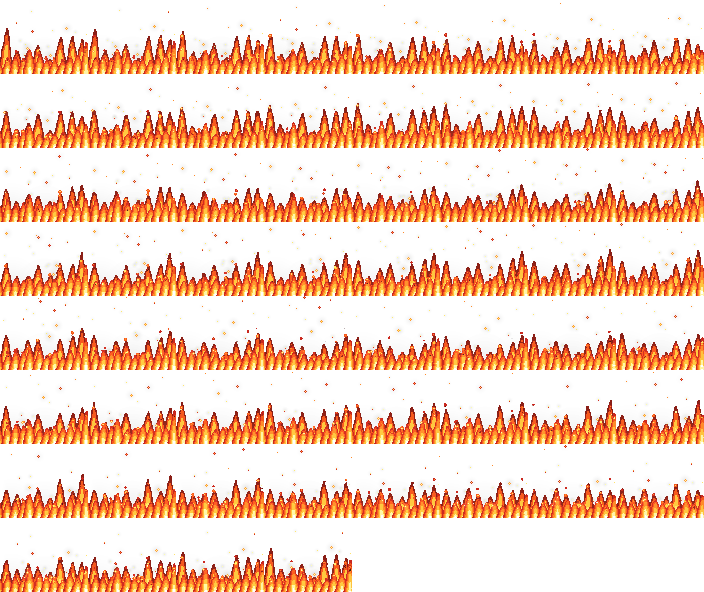
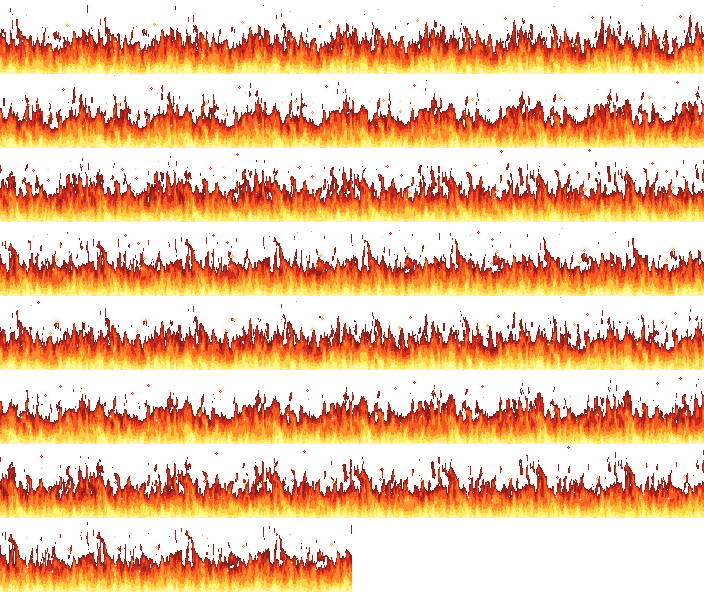
style(cosmetics): 픽셀 화염을 불벽으로 다시 그림 — 하얀 밑동·끊긴 색 단계·떨어져 나가는 불조각
- 따로 솟는 불 혀 대신 한 장의 불벽: 위로 흐르는 세로로 긴 노이즈에서 높이를 빼
  열을 정하고, 열에 따라 하양→노랑→주황→빨강→검붉음 색을 딱딱 끊어 칠한다
- 노이즈는 위로 갈수록 세져 밑동은 꽉 차고, 불끝은 들쭉날쭉하며 위쪽 불조각이
  떨어져 나가 솟다가 꺼진다
- 카드 아래 이름 가림막에 밑동이 덮이므로 불 높이를 조금 올려 밝은 층이 보이게

diff --git a/scripts/pixelfx/card-blaze.js b/scripts/pixelfx/card-blaze.js
@@ -1,11 +1,15 @@
-// The tongue, lick, flame-puff and ember recipe is adapted from Sprite Fusion's open-source fire
+// A pixel fire wall for the bottom of a portrait card (Nexus "픽셀 화염" card).
+// Not tongues but one field: tall-stretched noise scrolling upward, minus the height. Where it is hot the color
+// steps up a hard ramp, so the top edge comes out jagged with many small peaks, and the noise that scrolls past
+// the top breaks off as chunks of dark flame that rise and burn out.
+// The ember recipe (via ./_lib.js) is adapted from Sprite Fusion's open-source fire
 // (https://www.spritefusion.com/pixel-art-vfx/fire), MIT License, Copyright (c) 2026 Hugo Duprez.
-import { Rng, fit, mix, clamp, WHITE } from "../../core/index.js";
-import { noiseFor, hotFirst, flameTongue, firePuff, lick, ember, looped, LAYERS, BIG_LAYERS, BACK_LAYERS } from "./_lib.js";
+import { fit, mix, clamp, WHITE, tileFbm } from "../../core/index.js";
+import { noiseFor, hotFirst, ember, looped } from "./_lib.js";
 
 export const meta = {
   name: "Card blaze",
-  desc: "A wall of fire along the bottom of a portrait card: tall tongues at the sides framing the middle, licks torn off the tips, embers drifting up, a warm glow.",
+  desc: "A wall of pixel fire along the bottom of a card: a white-hot base, hard color steps up to dark red jagged peaks, chunks of flame breaking off and rising, embers drifting up.",
   tags: ["fire", "wall", "card", "ambient", "loop"],
   size: [88, 74],
   origin: [44, 74],
@@ -21,87 +25,64 @@ export const meta = {
 };
 
 const D = meta.duration, NL = noiseFor(D);
-const HALF = meta.size[0] / 2;
+const [W, HT] = meta.size, HALF = W / 2;
+
+// heat → color, hottest first. Hard steps: each band is one ramp color, no blending.
+// [threshold, index into the hot-first ramp]
+const BANDS = [
+  [1.07, 1],
+  [0.97, 2],
+  [0.83, 3],
+  [0.66, 4],
+  [0.48, 5],
+  [0.32, 6],
+  [0.18, 7],
+];
+
+// noise cells scrolled per loop: a whole number of tile periods, so the loop has no seam
+const PY = 6, SPEED = 2;
 
 export function draw(p, t, o) {
-  const F = fit(o.palette, 9), H = hotFirst(F), S = o.seed, R = new Rng(S), HC = o.height;
-  const N = (rate, seed = 0, off = 0) => NL(t, rate, seed, off);
-  const fl = 0.74 + 0.16 * N(7.3, S + 1) + 0.1 * N(19, S + 2);
-  const GLOW = mix(mix(H[3], H[4], 0.5), WHITE, 0.2);
+  const F = fit(o.palette, 9), H = hotFirst(F), S = o.seed, HF = o.height;
+  const phase = t / D;
+  const fl = 0.85 + 0.15 * NL(t, 5, S + 1);
   const EMB = [H[1], H[2], H[4], H[6]];
 
-  // tongues across the whole width: a back row of dark tall ones, a front row of bright ones. Sides are taller
-  // than the middle so the fire frames the portrait instead of hiding it.
-  const T = [];
-  for (let back = 1; back >= 0; back--) {
-    const step = back ? 11 : 8;
-    for (let x = -HALF - 2 + (back ? 7 : 0); x <= HALF + 2; x += step) {
-      const side = Math.abs(x) / HALF; // 0 middle .. 1 edge
-      const env = (0.55 + 0.18 * side * side) * (back ? 1.1 : 0.78);
-      T.push({
-        dx: x + R.range(-1.2, 1.2),
-        y: 1,
-        h: 4 + HC * env * R.range(0.7, 1.3),
-        w: (back ? 8.5 : 7) * R.range(0.9, 1.1),
-        back,
-        env,
-        n: (S * 7 + T.length) * 13,
-      });
+  // the fire's height along the card: a little taller at the sides so it frames the portrait, breathing slowly
+  const top = (x) => {
+    const side = Math.abs(x) / HALF;
+    return HF * (0.9 + 0.22 * side * side) * (0.94 + 0.06 * NL(t, 0.67, S + 9, x * 0.05));
+  };
+
+  p.shade(-HALF, -HT + 1, HALF - 1, 0, (x, y, out) => {
+    const up = -y; // 0 at the floor
+    const h = top(x);
+    // tall streaks: stretched in y, scrolling up. A second, finer field roughens the edges.
+    const ny = up * 0.075 - phase * PY * SPEED;
+    const n1 = tileFbm(x * 0.3 + 30, ny, 0, PY, S, 3);
+    const n2 = tileFbm(x * 0.6 + 70, up * 0.16 - phase * PY * 4, 0, PY * 2, S + 50, 2);
+    // noise grows with height: a solid base, ragged peaks, chunks breaking off above
+    const u = up / h;
+    const heat = 1.12 - u + (n1 * 0.7 + n2 * 0.2) * (0.15 + 0.85 * Math.min(1.5, u));
+    if (heat < BANDS[BANDS.length - 1][0]) return;
+    for (const [th, i] of BANDS) {
+      if (heat >= th) {
+        // the base glows; the dark tips don't
+        if (i <= 3) out.k = 0.12 * (4 - i) * fl;
+        return H[i];
+      }
     }
-  }
-  const lean = (tt) => NL(tt, 0.67, S + 90) * 0.1;
-  const height = (i, tt) => {
-    const { h, n } = T[i], leap = Math.max(0, NL(tt, 2.6, n + 70) - 0.6) * 0.35;
-    return (h + 0.22 * h * NL(tt, 3.3, n) + h * leap) * (0.9 + 0.1 * fl);
-  };
-  const sweep = (i, tt, h) => (NL(tt, 1.6, T[i].n + 40) * (0.6 + h * 0.02) + lean(tt) * h * 0.4) * 0.5;
-  const tip = (i, tt) => {
-    const h = height(i, tt);
-    return [T[i].dx + sweep(i, tt, h) * 0.85, T[i].y - h * 0.88 + 3, h];
-  };
-  const tongueAt = (i) => {
-    const { dx, y, w, n, back } = T[i], h = height(i, t);
-    flameTongue(p, dx, y, h, w, sweep(i, t, h), N, n, H, back ? BACK_LAYERS : w > 6 ? BIG_LAYERS : LAYERS, 0.35, 0.4);
-  };
-
-  // a bed of fire along the floor so the tongues grow out of something, not out of the card edge
-  p.shade(-HALF, -6, HALF, 1, (x, y) => {
-    const ripple = 3 + 2 * N(1.5, S + 30, x * 0.15);
-    if (-y > ripple) return;
-    return -y > ripple - 1.5 ? H[5] : -y > ripple - 3.5 ? H[4] : H[3];
   });
 
-  for (let i = 0; i < T.length; i++) if (T[i].back) tongueAt(i);
-  // flame puffs rising off the bed
-  const puffs = [];
-  looped(t, D, T.length * 10, S + 200, (r, j) => {
-    const i = j % T.length;
-    return { i, fire: r.range(0.14, 0.3), ox: r.range(-1, 1), oy: r.range(0, 3), vx: r.range(-3, 3), vy: -r.range(14, 26), s: r.range(0.8, 1.5) * (0.8 + 0.5 * T[i].env), f: r.next(), life: 0.3 };
-  }, (q, age) => {
-    if (age >= q.fire) return;
-    const [tx, ty] = tip(q.i, t - age);
-    puffs.push([tx + q.ox + q.vx * age, ty + q.oy + q.vy * age, 1 - age / q.fire, q.s, q.f]);
-  });
-  for (let i = 0; i < T.length; i++) if (!T[i].back) tongueAt(i);
-  // licks torn off the tips
-  looped(t, D, T.length * 6, S + 220, (r, j) => ({ i: j % T.length, vx: r.range(-3, 3), vy: -r.range(12, 22), s: r.range(0.9, 1.5) * (0.8 + 0.5 * T[j % T.length].env), life: 0.26 }), (q, age) => {
-    const [tx, ty] = tip(q.i, t - age);
-    lick(p, tx + q.vx * age, ty - 2 + q.vy * age, 1 - age / q.life, q.s, H);
-  });
-  for (const [x, y, k, s, f] of puffs) firePuff(p, x, y, k, s, f, H);
-
-  // embers carried up by the heat, wandering and cooling; they climb past the portrait into the dark
-  looped(t, D, 26, S + 500, (r) => ({ x: r.range(-HALF + 4, HALF - 4), y: -r.range(10, 24), vx: r.range(-8, 8), vy: -r.range(16, 32), life: r.range(1.4, 2.8), s: r.chance(0.15) ? 2 : r.range(1, 1.5), a: r.range(0, 6.3), b: r.range(0, 6.3) }), (q, age) => {
-    const x = q.x + q.vx * age + 5 * (Math.sin(age * 2.1 + q.a) - Math.sin(q.a));
+  // embers carried up by the heat, wandering and cooling, past the portrait into the dark
+  looped(t, D, 18, S + 500, (r) => ({ x: r.range(-HALF + 4, HALF - 4), y: -r.range(16, 30), vx: r.range(-7, 7), vy: -r.range(14, 28), life: r.range(1.2, 2.4), s: r.chance(0.15) ? 2 : 1, a: r.range(0, 6.3), b: r.range(0, 6.3) }), (q, age) => {
+    const x = q.x + q.vx * age + 4 * (Math.sin(age * 2.1 + q.a) - Math.sin(q.a));
     const y = q.y + q.vy * age + 2 * (Math.sin(age * 3 + q.b) - Math.sin(q.b));
-    if (y < -meta.size[1] + 1) return;
+    if (y < -HT + 1) return;
     ember(p, x, y, 1 - age / q.life, q.s, EMB, age * 40 + q.a);
   });
 
-  // light: a low warm band over the whole width, brighter where the tall side tongues are
-  const lx = lean(t) * 10;
-  for (const [x, k] of [[-HALF * 0.75, 1], [0, 0.7], [HALF * 0.75, 1]]) {
-    p.glow(x + lx, -12, 36, GLOW, clamp(0.24 * k * fl));
-  }
-  p.glow(lx, -4, 50, H[2], 0.12 * fl);
+  // a low warm glow over the whole width
+  const GLOW = mix(mix(H[3], H[4], 0.5), WHITE, 0.2);
+  for (const x of [-HALF * 0.6, 0, HALF * 0.6]) p.glow(x, -10, 34, GLOW, clamp(0.16 * fl));
 }

diff --git a/apps/web/src/components/cosmetics/effects.tsx b/apps/web/src/components/cosmetics/effects.tsx
@@ -364,10 +364,11 @@ function SakuraFx({ px }: { px: number }) {
 /* ───────── 픽셀 화염 ───────── */
 
 /**
- * 초상화 아래를 불길이 집어삼킨다. 양옆 불 혀가 높이 솟아 초상화를 감싸고,
- * 끝에서 불조각이 찢겨 나가며 불티가 피어오른다.
+ * 초상화 아래를 불벽이 집어삼킨다. 밑동은 하얗게 달아오르고 위로 갈수록
+ * 노랑→주황→빨강→검붉음으로 딱딱 끊겨 식으며, 들쭉날쭉한 불끝에서 불조각이
+ * 떨어져 나가 솟아오르다 꺼진다. 양옆이 조금 더 높아 초상화를 감싼다.
  *
- * 그림은 pixelfx(픽셀 효과 라이브러리)의 불 기법(불 혀·불조각·불티·빛 번짐)으로 그려
+ * 그림은 pixelfx(픽셀 효과 라이브러리)로 그려 — 위로 흐르는 노이즈에서 높이를 빼 색 단계를 고른다 —
  * 구운 스프라이트 시트(88×74 칸 60장, 3초 반복) — 원본 효과 파일은
  * scripts/pixelfx/card-blaze.js. 예전 실시간 열 전파 불(pixel-fire.tsx)은
  * 칸이 세로로 늘어나고 자글자글한 잡티가 많았다. 아바타 불꽃은 그대로 그걸 쓴다.
